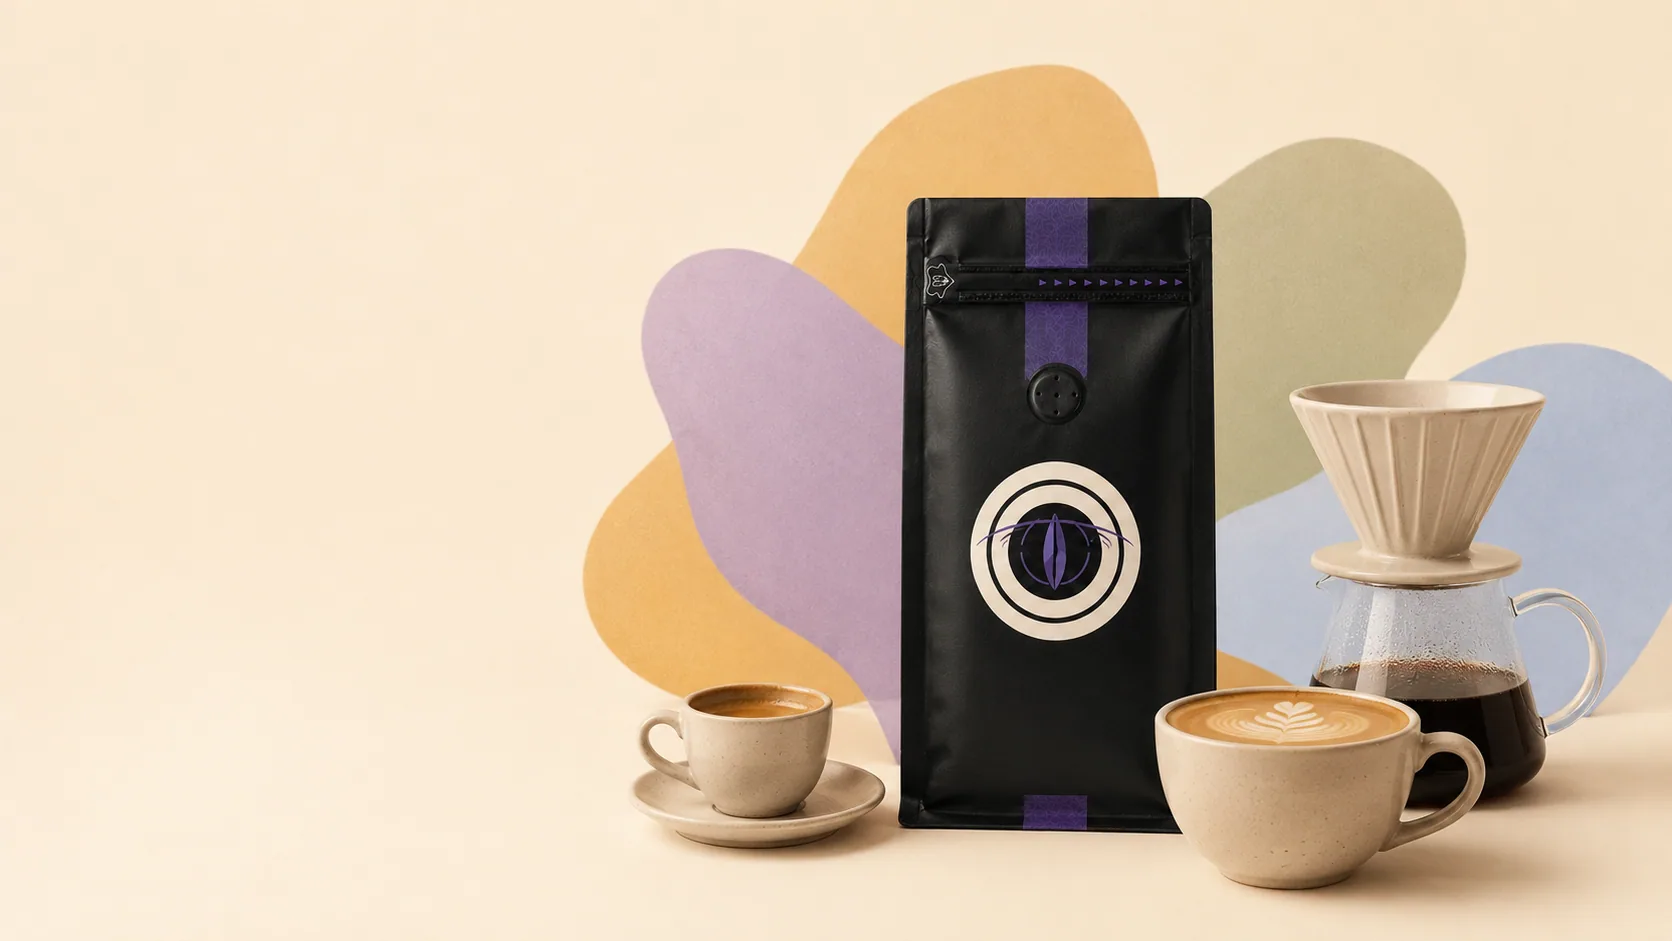
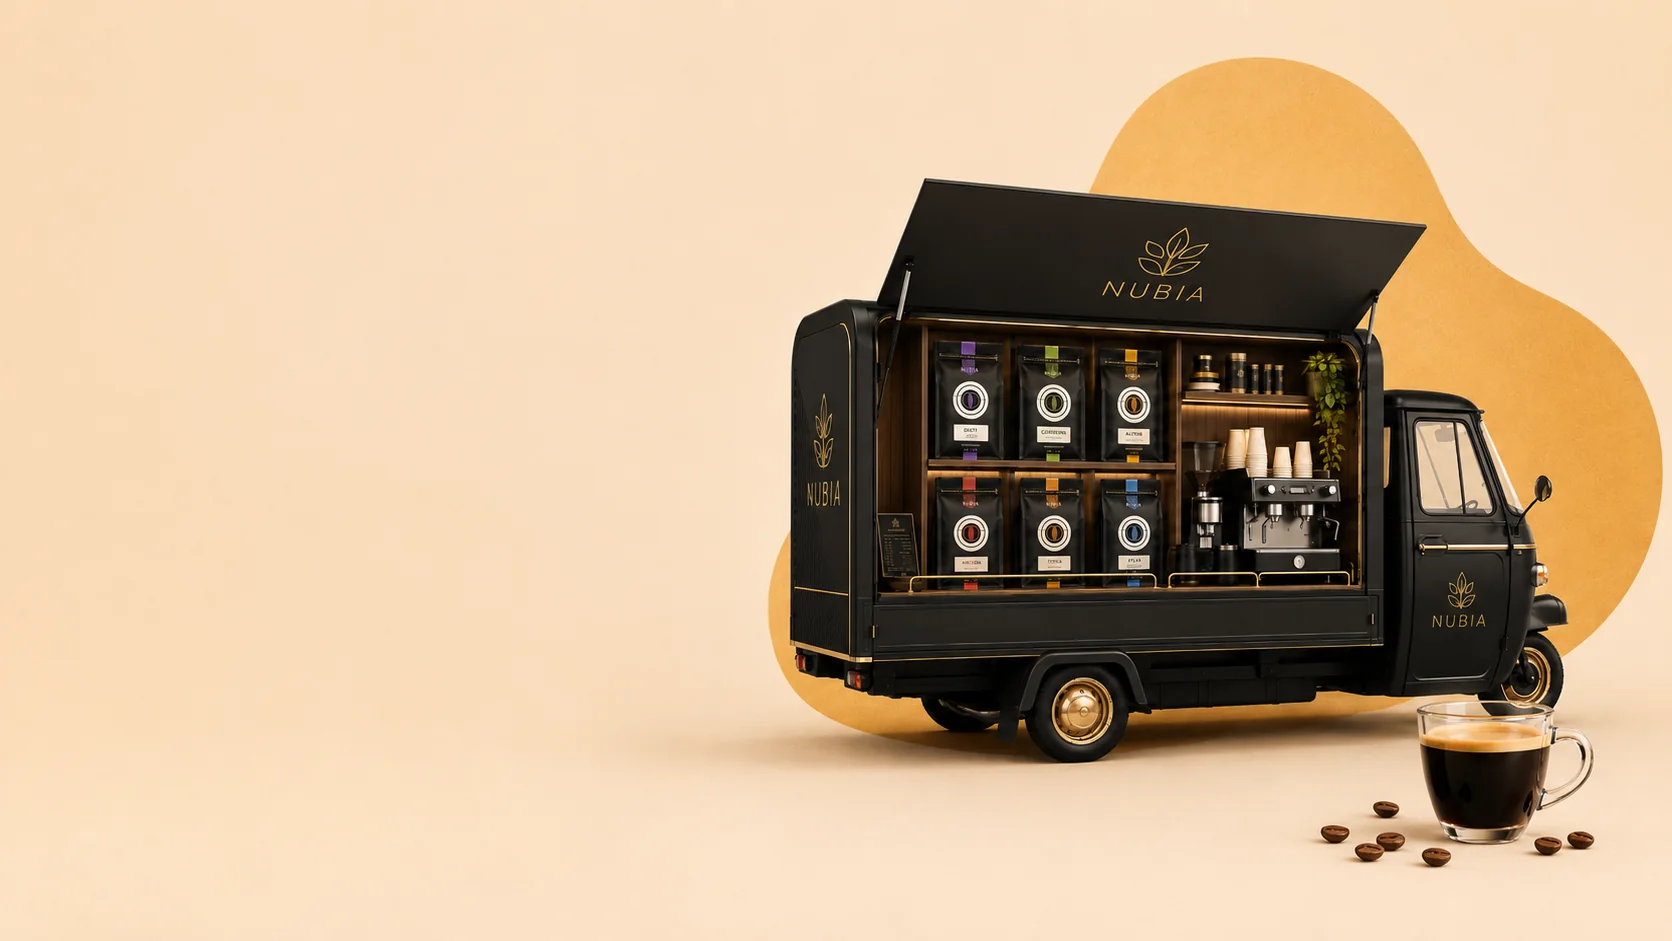
Update guide cart and Onyx visuals

diff --git a/cart/index.html b/cart/index.html
@@ -34,8 +34,8 @@
   </header><main class="da-site da-cart">
       <section class="da-cart-hero da-scene">
         <picture class="da-scene-picture">
-    <source media="(max-width: 760px)" srcset="../public/images/new-da-optimized/mobile-4-5/9.%20Checkout%20%20Cart%20Visual.webp" />
-    <img src="../public/images/new-da-optimized/desktop-16-9/9.%20Checkout%20%20Cart%20Visual.webp" alt="Visuel checkout Nubia" loading="eager" decoding="async" />
+    <source media="(max-width: 760px)" srcset="../public/images/new-da-optimized/mobile-4-5/9.%20Cart%20visual.webp" />
+    <img src="../public/images/new-da-optimized/desktop-16-9/9.%20Cart%20visual.webp" alt="Visuel panier Nubia" loading="eager" decoding="async" />
   </picture>
         <div class="da-scene-copy">
           <span class="da-label"><span data-i18n="cart-title-label" data-fr="Panier" data-en="Cart">Panier</span></span>

diff --git a/panier/index.html b/panier/index.html
@@ -34,8 +34,8 @@
   </header><main class="da-site da-cart">
       <section class="da-cart-hero da-scene">
         <picture class="da-scene-picture">
-    <source media="(max-width: 760px)" srcset="../public/images/new-da-optimized/mobile-4-5/9.%20Checkout%20%20Cart%20Visual.webp" />
-    <img src="../public/images/new-da-optimized/desktop-16-9/9.%20Checkout%20%20Cart%20Visual.webp" alt="Visuel checkout Nubia" loading="eager" decoding="async" />
+    <source media="(max-width: 760px)" srcset="../public/images/new-da-optimized/mobile-4-5/9.%20Cart%20visual.webp" />
+    <img src="../public/images/new-da-optimized/desktop-16-9/9.%20Cart%20visual.webp" alt="Visuel panier Nubia" loading="eager" decoding="async" />
   </picture>
         <div class="da-scene-copy">
           <span class="da-label"><span data-i18n="cart-title-label" data-fr="Panier" data-en="Cart">Panier</span></span>